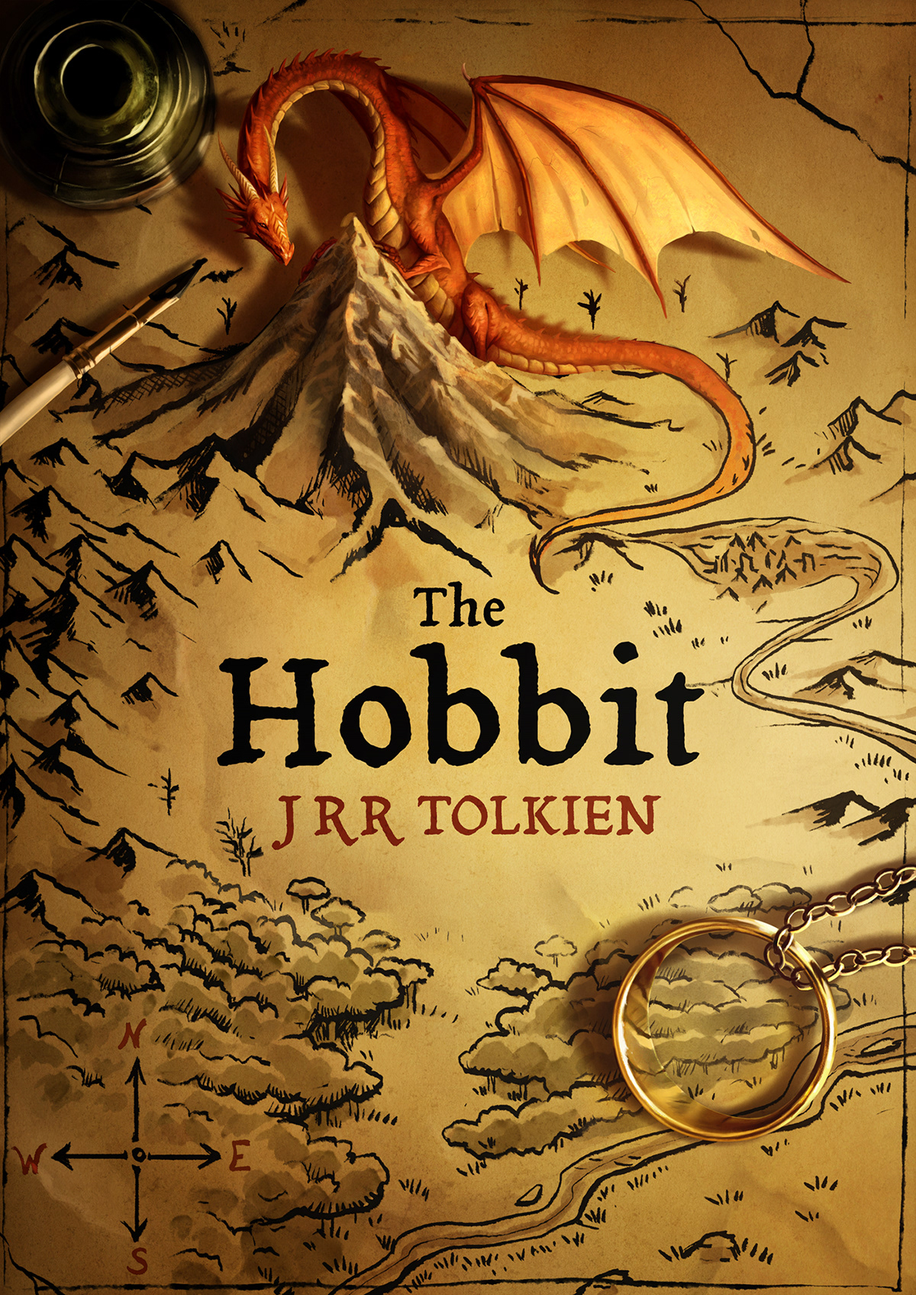
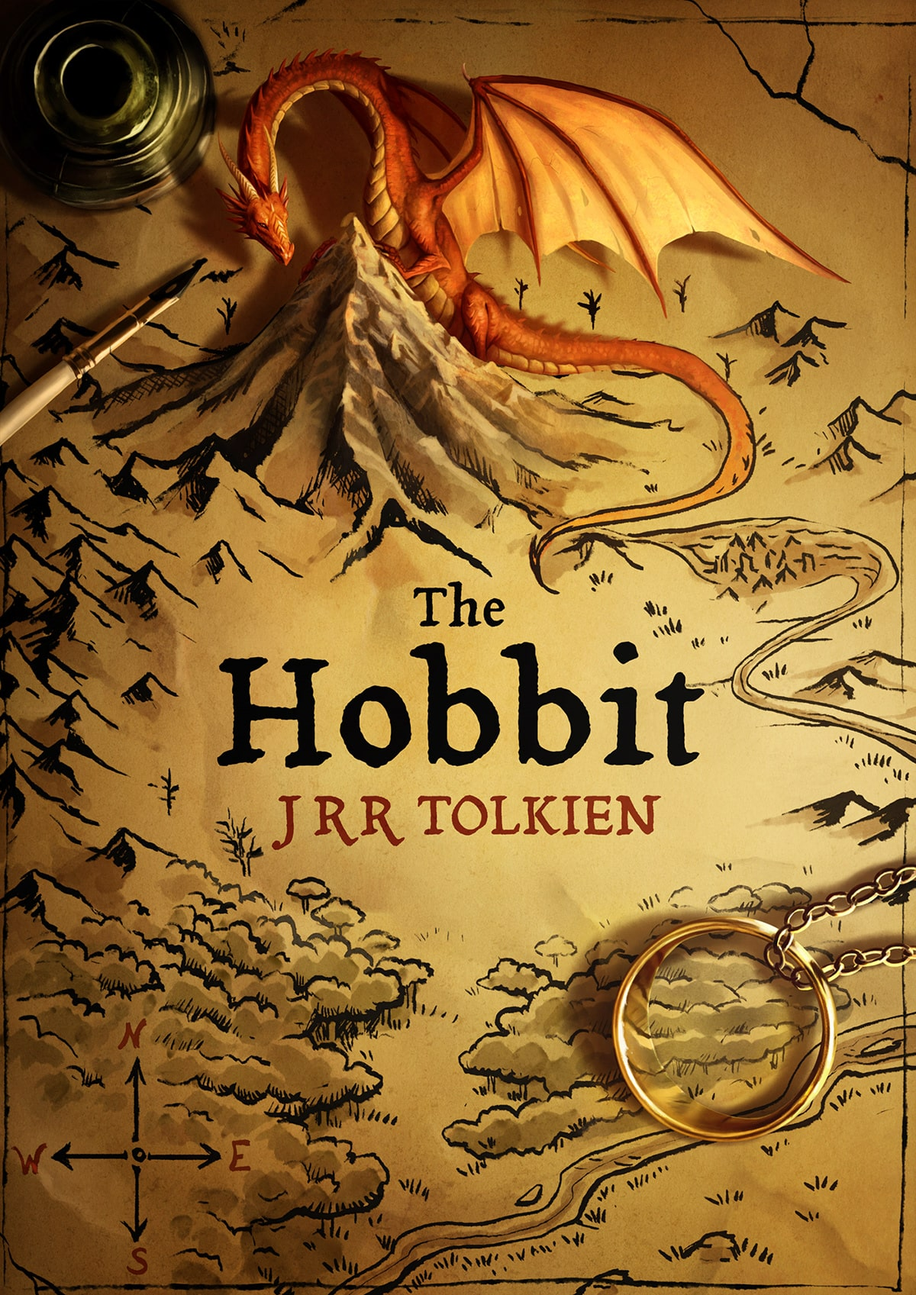
cover compression, fixes

diff --git a/books.js b/books.js
@@ -1,4 +1,7 @@
-const READ_STATUS = {"reading": "Reading", "not-read": "Not read yet..", "read": "Read"};
+const READ_STATUS = {"reading": "Reading", "not-read": "Not read yet..", "read": "Read"}; //Book possible status
+
+/* Containers and add book float btn */
+
 const booksContainer = document.getElementById("books-container");
 const modalContainer = document.querySelector(".modal-container");
 const addFloatBtn = document.getElementById("add-btn");
@@ -17,7 +20,7 @@ const pagesReadForm = document.getElementById("pages-read-form");
 const closeModalIcons = document.querySelectorAll(".close-modal-icon");
 let shouldCheckPagesReadInput = false;
 
-/* ================================================== */
+/* Cover customization */
 
 const coverCanvas = document.getElementById("preview-book-cover");
 const coverColorInputs = document.querySelectorAll(".customize-cover input");
@@ -27,7 +30,7 @@ let currentBook = null;
 coverCanvas.width = 224;
 coverCanvas.height = 336;
 
-let myLibrary = [];
+let myLibrary = []; //Store books
 
 class Book {
     constructor(cover, title, author, pagesRead, pages, status) {
@@ -40,9 +43,8 @@ class Book {
     }
 }
 
-
 function addBookToLibrary() {
-
+    // TODO: to implement
 }
 
 function createBookCoverImg(book) {
@@ -156,10 +158,10 @@ function createBookCard(book) {
     booksContainer.appendChild(bookCard);
     setTimeout(() => {
         pushBookAnimation(bookCard);
-    }, 300);
+    }, 300); //Wait 3ms to show animation in order to give time to display the card
 }
 
-function changeStatus(e) {
+function changeStatus(e) { // TODO: change this function
     const parent = e.target.parentElement;
     let index = Object.keys(READ_STATUS).indexOf(parent.classList.item(1)); //reading, read or not-read class
     switch(index) {
@@ -299,7 +301,7 @@ function checkForm() {
         if(validFileAndNotUndefined) { //Create book
             setCoverInputAndCreateBookCard(fileInput, currentBook);
         }
-        else if(fileInput === undefined){ //Push cover creation modal
+        else if(fileInput === undefined){ //Push cover creation modal if cover is not provided
             closeCurrentModal();
             let coverCreationModal = setCoverCreationModal();
             openModalAndSetCurrent(coverCreationModal);
